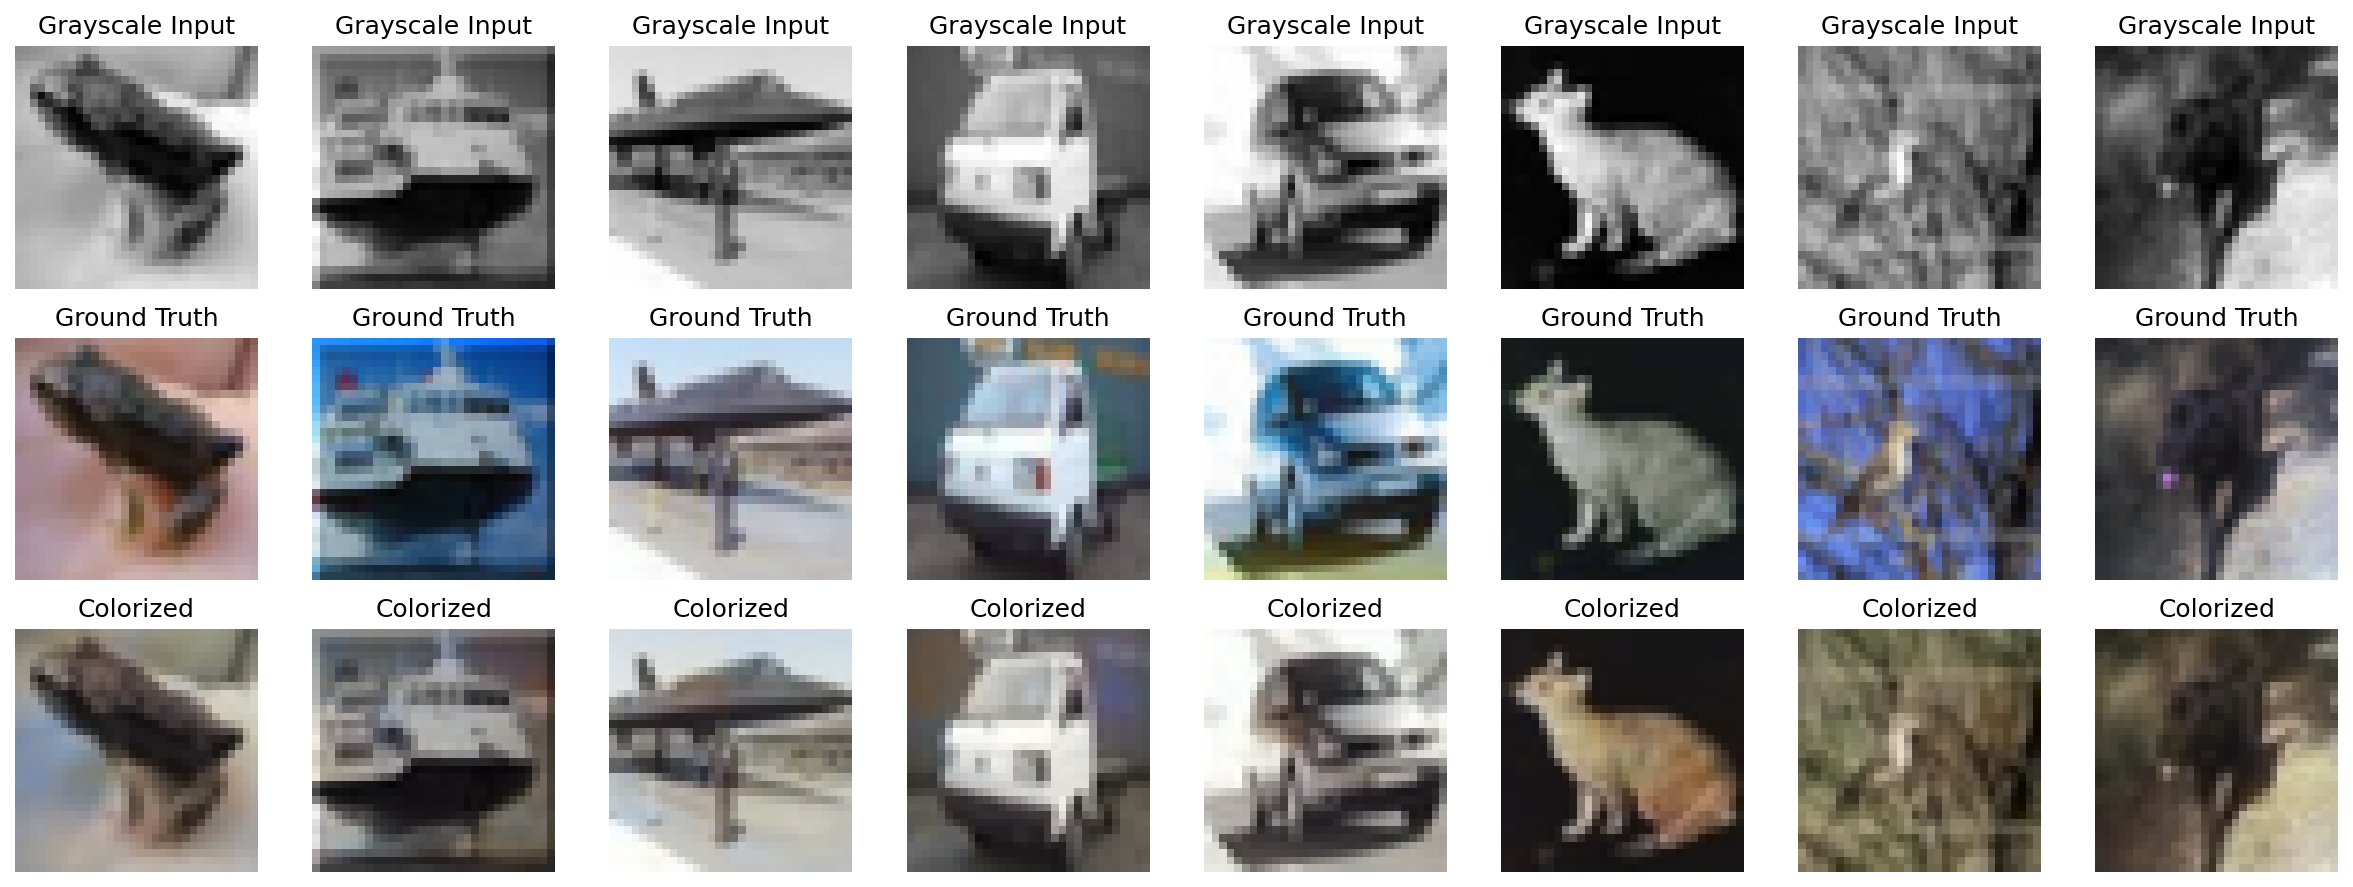
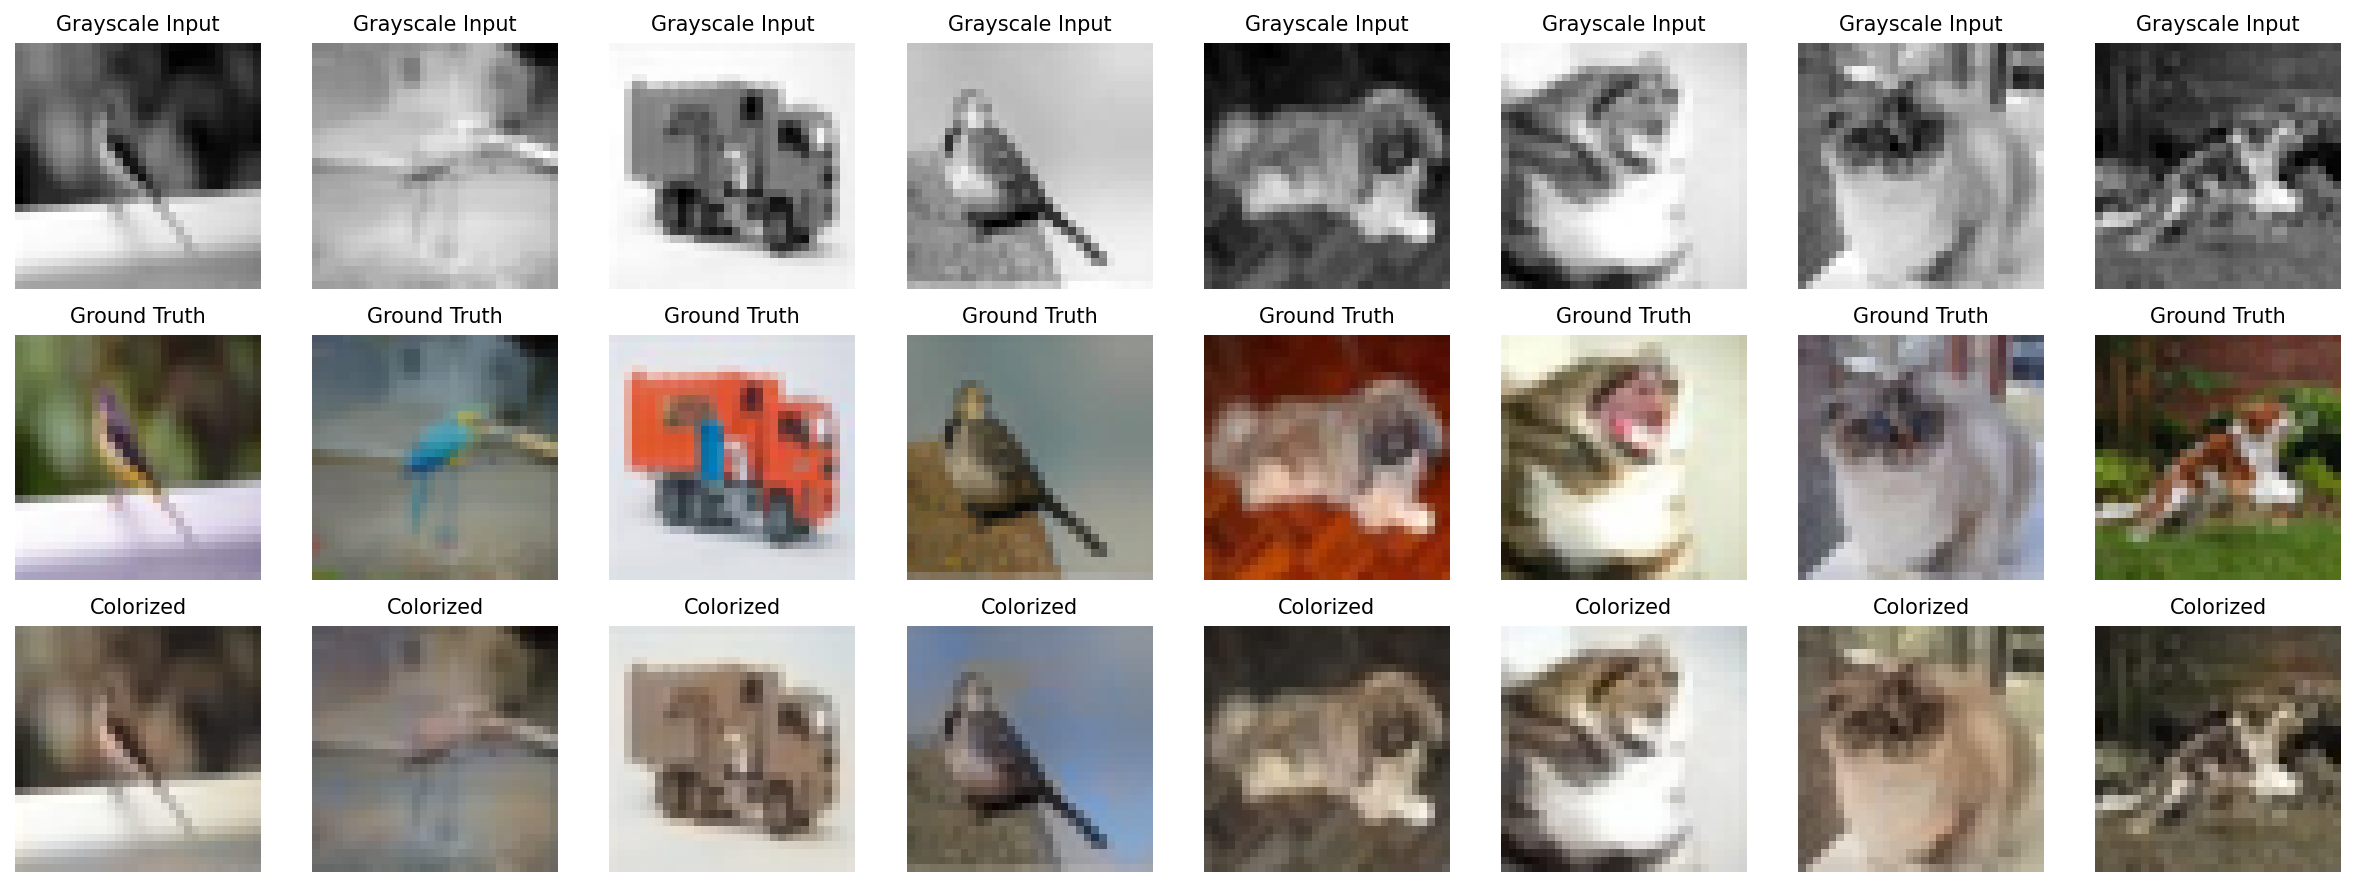
feat: add model saving/loading functionality and update training logic for RGB reconstruction and colorization tasks

diff --git a/predict.py b/predict.py
@@ -3,17 +3,71 @@ import torch.nn as nn
 import matplotlib.pyplot as plt
 import numpy as np
 
-from autoencoderCAE_colourisation import AutoencoderCAE, prepare_dataloaders, lab_to_rgb
 
-# Exercise 1
-# from autoencoderCAE import prepare_dataloaders
+# Exercise 1: Basic RGB Autoencoder (Reconstruction)
+EXERCISE = 1
+
+# Exercise 2: Architecture Experiments (uses same code as Exercise 1)
+# EXERCISE = 2
+
+# Exercise 3: Colorization (Grayscale to Color)
+# EXERCISE = 3
+
+if EXERCISE in [1, 2]:
+    from autoencoderCAE import AutoencoderCAE, prepare_dataloaders
+    MODEL_LOAD_PATH = 'cifar_model_reconstruction.pth'
+    RESULTS_SAVE_PATH = 'reconstruction_results.png'
+    print("=" * 60)
+    print("EVALUATING RGB RECONSTRUCTION MODEL (Exercise 1/2)")
+    print("=" * 60)
+    
+elif EXERCISE == 3:
+    from autoencoderCAE_colourisation import AutoencoderCAE, prepare_dataloaders, lab_to_rgb
+    MODEL_LOAD_PATH = 'cifar_model_colorization.pth'
+    RESULTS_SAVE_PATH = 'colorization_results.png'
+    print("=" * 60)
+    print("EVALUATING COLORIZATION MODEL (Exercise 3)")
+    print("=" * 60)
+
+else:
+    raise ValueError("EXERCISE must be 1, 2, or 3")
 
 def load_model(model_path):
     model = AutoencoderCAE()
-    model.load_state_dict(torch.load(model_path))
+    model.load_state_dict(torch.load(model_path, map_location='cpu'))
     model.eval()
     print(f"✓ Model loaded from {model_path}")
     return model
+
+
+def show_reconstruction_results(model, testloader, n_images=8, save_name='reconstruction_results.png'):
+    images, labels = next(iter(testloader))
+    
+    with torch.no_grad():
+        reconstructed = model(images)
+    
+    # CIFAR-10 class names
+    classes = ('plane', 'car', 'bird', 'cat', 'deer', 
+               'dog', 'frog', 'horse', 'ship', 'truck')
+    
+    fig, axes = plt.subplots(2, n_images, figsize=(16, 4))
+    
+    for i in range(min(n_images, len(images))):
+        orig_img = images[i].cpu().numpy().transpose(1, 2, 0)
+        axes[0, i].imshow(orig_img)
+        axes[0, i].set_title(f'Original\n{classes[labels[i]]}', fontsize=10)
+        axes[0, i].axis('off')
+        
+        recon_img = reconstructed[i].cpu().numpy().transpose(1, 2, 0)
+        recon_img = np.clip(recon_img, 0, 1)
+        axes[1, i].imshow(recon_img)
+        axes[1, i].set_title('Reconstructed', fontsize=10)
+        axes[1, i].axis('off')
+    
+    plt.tight_layout()
+    plt.savefig(save_name, dpi=150, bbox_inches='tight')
+    print(f"✓ Saved: {save_name}")
+    plt.show()
 
 
 def show_colorization_results(model, testloader, n_images=8, save_name='colorization_results.png'):
@@ -30,18 +84,18 @@ def show_colorization_results(model, testloader, n_images=8, save_name='coloriza
     for i in range(min(n_images, len(grayscale_batch))):
         gray_img = grayscale_batch[i, 0].cpu().numpy()
         axes[0, i].imshow(gray_img, cmap='gray')
-        axes[0, i].set_title('Grayscale Input')
+        axes[0, i].set_title('Grayscale Input', fontsize=10)
         axes[0, i].axis('off')
 
         true_img = rgb_true_batch[i]                    
         axes[1, i].imshow(true_img)
-        axes[1, i].set_title('Ground Truth')
+        axes[1, i].set_title('Ground Truth', fontsize=10)
         axes[1, i].axis('off')
 
         pred_img = rgb_pred_batch[i]
         pred_img = np.clip(pred_img, 0, 1)
         axes[2, i].imshow(pred_img)
-        axes[2, i].set_title('Colorized')
+        axes[2, i].set_title('Colorized', fontsize=10)
         axes[2, i].axis('off')
 
     plt.tight_layout()
@@ -49,35 +103,47 @@ def show_colorization_results(model, testloader, n_images=8, save_name='coloriza
     print(f"✓ Saved: {save_name}")
     plt.show()
 
-def calculate_test_loss(model, testloader):
+
+def calculate_test_loss(model, testloader, exercise):
     criterion = nn.MSELoss()
     test_loss = 0.0
     
     with torch.no_grad():
-        for grayscale, rgb_target in testloader:
-            rgb_predicted = model(grayscale)
-            loss = criterion(rgb_predicted, rgb_target)
+        for batch_data in testloader:
+            if exercise in [1, 2]:
+                images, _ = batch_data
+                reconstructed = model(images)
+                loss = criterion(reconstructed, images)
+            
+            elif exercise == 3:
+                grayscale, ab_target = batch_data
+                ab_predicted = model(grayscale)
+                loss = criterion(ab_predicted, ab_target)
+            
             test_loss += loss.item()
     
     avg_loss = test_loss / len(testloader)
-    print(f"Test loss (MSE on RGB): {avg_loss:.6f}")
+    
+    if exercise in [1, 2]:
+        print(f"Test loss (MSE on RGB): {avg_loss:.6f}")
+    elif exercise == 3:
+        print(f"Test loss (MSE on ab channels): {avg_loss:.6f}")
+    
     return avg_loss
 
-
 if __name__ == '__main__':
-    print("=" * 60)
-    print("COLORIZATION RESULTS (RGB Direct)")
-    print("=" * 60)
-    
     _, _, testloader = prepare_dataloaders()
     
-    model = load_model('cifar_model_colorization.pth')
-
-    show_colorization_results(model, testloader, n_images=8, 
-                            save_name='colorization_results.png')
+    model = load_model(MODEL_LOAD_PATH)
     
-
-    test_loss = calculate_test_loss(model, testloader)
+    if EXERCISE in [1, 2]:
+        show_reconstruction_results(model, testloader, n_images=8, 
+                                   save_name=RESULTS_SAVE_PATH)
+    elif EXERCISE == 3:
+        show_colorization_results(model, testloader, n_images=8, 
+                                 save_name=RESULTS_SAVE_PATH)
+    
+    test_loss = calculate_test_loss(model, testloader, EXERCISE)
     
     print("\n" + "=" * 60)
     print("✓ Evaluation complete!")

diff --git a/train.py b/train.py
@@ -3,18 +3,47 @@ import torch.nn as nn
 import torch.optim as optim
 import matplotlib.pyplot as plt
 
-from autoencoderCAE_colourisation import AutoencoderCAE, prepare_dataloaders
-
-# Exercise 1
-# from autoencoderCAE import AutoencoderCAE, prepare_dataloaders
-
 from constants import NUM_EPOCHS, LEARNING_RATE
+
+
+# Exercise 1: Basic RGB Autoencoder (Reconstruction)
+EXERCISE = 1
+
+# Exercise 2: Architecture Experiments (uses same code as Exercise 1)
+# EXERCISE = 2
+
+# Exercise 3: Colorization (Grayscale to Color)
+# EXERCISE = 3
+
+if EXERCISE in [1, 2]:
+    from autoencoderCAE import AutoencoderCAE, prepare_dataloaders
+    MODEL_SAVE_PATH = 'cifar_model_reconstruction.pth'
+    LOSS_PLOT_PATH = 'loss_plot_reconstruction.png'
+    print("=" * 60)
+    print("TRAINING RGB RECONSTRUCTION MODEL (Exercise 1/2)")
+    print("=" * 60)
+    
+elif EXERCISE == 3:
+    from autoencoderCAE_colourisation import AutoencoderCAE, prepare_dataloaders
+    MODEL_SAVE_PATH = 'cifar_model_colorization.pth'
+    LOSS_PLOT_PATH = 'loss_plot_colorization.png'
+    print("=" * 60)
+    print("TRAINING COLORIZATION MODEL (Exercise 3)")
+    print("=" * 60)
+
+else:
+    raise ValueError("EXERCISE must be 1, 2, or 3")
+
 
 if __name__ == '__main__':
     if torch.backends.mps.is_available():
         device = torch.device('mps')
+    elif torch.cuda.is_available():
+        device = torch.device('cuda')
     else:
         device = torch.device('cpu')
+    
+    print(f"Using device: {device}")
 
     model = AutoencoderCAE().to(device)
     
@@ -28,10 +57,6 @@ if __name__ == '__main__':
     val_losses = []
     epochs_list = []
 
-    print("=" * 60)
-    print("TRAINING COLORIZATION MODEL (LAB COLOR SPACE)")
-    print("=" * 60)
-
     for epoch in range(NUM_EPOCHS):
         print(f'\nEpoch {epoch+1}/{NUM_EPOCHS}')
 
@@ -39,33 +64,49 @@ if __name__ == '__main__':
         model.train()
         train_loss = 0.0
 
-        for L, ab_target in trainloader:
-            L = L.to(device)
-            ab_target = ab_target.to(device)
+        for batch_data in trainloader:
+            if EXERCISE in [1, 2]:
+                images, _ = batch_data
+                images = images.to(device)
+                
+                optimizer.zero_grad()
+                reconstructed = model(images)
+                loss = criterion(reconstructed, images)
+                
+            elif EXERCISE == 3:
+                L, ab_target = batch_data
+                L = L.to(device)
+                ab_target = ab_target.to(device)
 
-            optimizer.zero_grad()
-            ab_predicted = model(L)
-            
-            loss = criterion(ab_predicted, ab_target)
+                optimizer.zero_grad()
+                ab_predicted = model(L)
+                loss = criterion(ab_predicted, ab_target)
             
             loss.backward()
             optimizer.step()
-
             train_loss += loss.item()
 
         avg_train_loss = train_loss / len(trainloader)
 
-        # Val
+        #Val
         model.eval()
         val_loss = 0.0
 
         with torch.no_grad():
-            for L, ab_target in validloader:
-                L = L.to(device)
-                ab_target = ab_target.to(device)
+            for batch_data in validloader:
+                if EXERCISE in [1, 2]:
+                    images, _ = batch_data
+                    images = images.to(device)
+                    reconstructed = model(images)
+                    loss = criterion(reconstructed, images)
+                    
+                elif EXERCISE == 3:
+                    L, ab_target = batch_data
+                    L = L.to(device)
+                    ab_target = ab_target.to(device)
+                    ab_predicted = model(L)
+                    loss = criterion(ab_predicted, ab_target)
                 
-                ab_predicted = model(L)
-                loss = criterion(ab_predicted, ab_target)
                 val_loss += loss.item()
         
         avg_val_loss = val_loss / len(validloader)
@@ -79,7 +120,7 @@ if __name__ == '__main__':
 
         if avg_val_loss < best_val_loss:
             best_val_loss = avg_val_loss
-            torch.save(model.state_dict(), './cifar_model_colorization.pth')
+            torch.save(model.state_dict(), MODEL_SAVE_PATH)
             print(f'  ✓ Best model saved!')
         
         print("-" * 60)
@@ -94,11 +135,17 @@ if __name__ == '__main__':
     plt.plot(epochs_list, val_losses, label='Validation Loss', marker='s', linewidth=2)
     
     plt.xlabel('Epoch', fontsize=12)
-    plt.ylabel('Loss (MSE on ab channels)', fontsize=12)
-    plt.title('Colorization Training Progress', fontsize=14, fontweight='bold')
+    
+    if EXERCISE in [1, 2]:
+        plt.ylabel('Loss (MSE on RGB)', fontsize=12)
+        plt.title('RGB Reconstruction Training Progress', fontsize=14, fontweight='bold')
+    elif EXERCISE == 3:
+        plt.ylabel('Loss (MSE on ab channels)', fontsize=12)
+        plt.title('Colorization Training Progress', fontsize=14, fontweight='bold')
+    
     plt.legend(fontsize=11)
     plt.grid(True, alpha=0.3)
     plt.tight_layout()
     
-    plt.savefig('loss_plot_colorization.png', dpi=300, bbox_inches='tight')
-    print("Loss plot saved as 'loss_plot_colorization.png'")
+    plt.savefig(LOSS_PLOT_PATH, dpi=300, bbox_inches='tight')
+    print(f"Loss plot saved as '{LOSS_PLOT_PATH}'")
